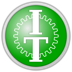
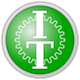
minor changes to readme, title and images

diff --git a/index.html b/index.html
@@ -85,7 +85,7 @@
 
     <div class="container">
 
-        <h1 class="text-muted">Intertechno SMS Switch message Generator</h1>
+        <h1 class="text-muted">Intertechno SMS Switch Message Generator</h1>
         <br/><br/><br/>
         <br class="hidden-xs"/><br class="hidden-xs"/><br class="hidden-xs"/>
 

diff --git a/README.md b/README.md
@@ -1,14 +1,20 @@
+## Intertechno SMS Switch Message Generator
+
+![SMS Switch](https://smart-home-technology.github.io/it-switch-codes-app/img/SMSSwitch_Icon.png) ![Smart Home Technology GmbH](https://smart-home-technology.github.io/it-switch-codes-app/img/SmartHomeTechnologyGmbH.png)
+
 ### See the [live app](https://smart-home-technology.github.io/it-switch-codes-app).
 
-Using this little webapp here you can freely generate all the SMS messages as they are being used in the [Intertechno SMS Switch](http://www.intertechno.at/produkte/smartphone/IT-SMS.html).
+Using this little webapp here you can freely generate all the SMS messages as they are being used in the [Intertechno SMS Switch](https://smart-home-technology.ch/en/products/consumer/sms-switch).
 
 Essentially it provides an encoding javascript module - which you could use on its own (see [js/IntertechnoSwitchMessenger.js](https://github.com/smart-home-technology/it-switch-codes-app/blob/master/js/IntertechnoSwitchMessenger.js)) - or together with the web-frontend. The former might be interesting to use in combination with an app of your own.
 
+As an interesting sidenote: the generated commands can also be used in conjuction with the [Intertechno BT Switch](https://smart-home-technology.ch/en/products/consumer/bt-switch) but this gateway relies on a different and less easily-accessible communication interface (bluetooth that is).
+
+This source code is happily provided by [Smart Home Technology GmbH](https://smart-home-technology.ch).
 
 
 
-
-******
+***
 _MIT License_
 
 Copyright (c) 2016 Smart Home Technology GmbH
